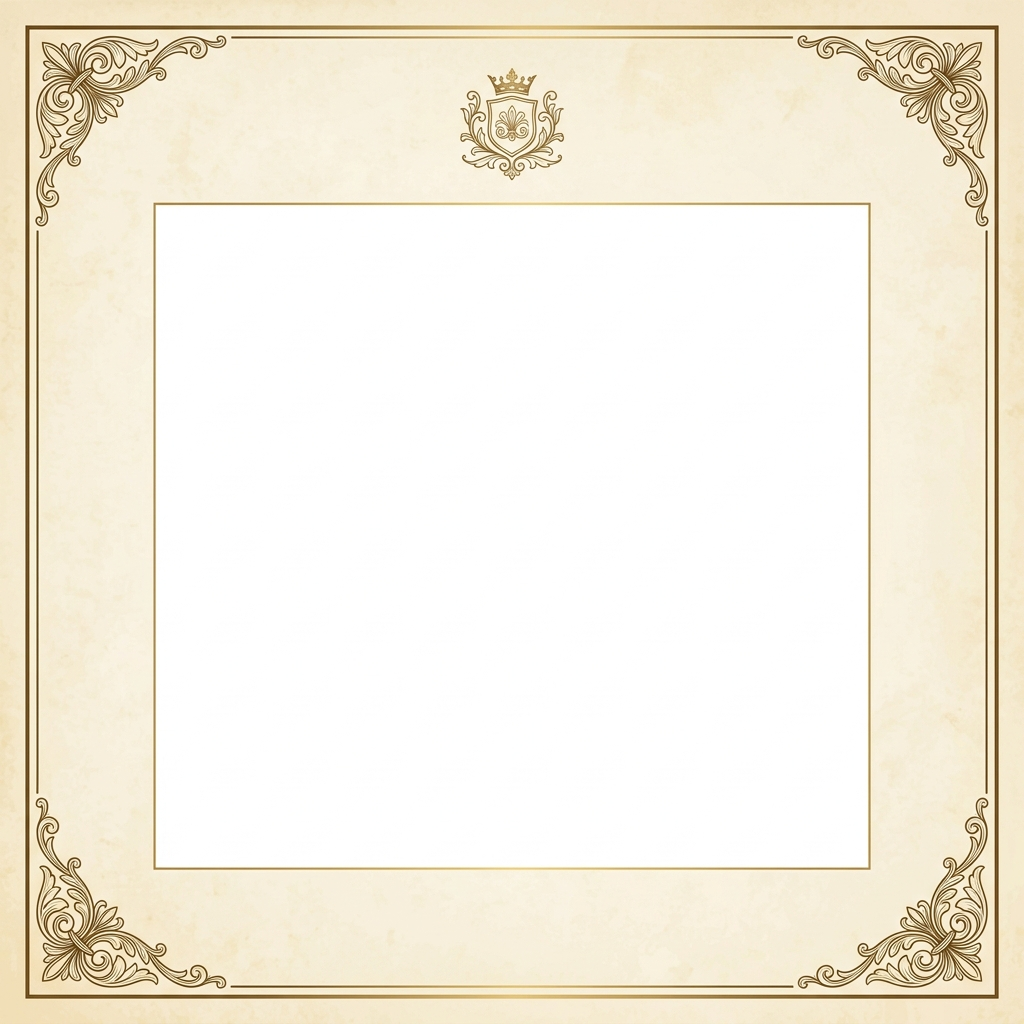
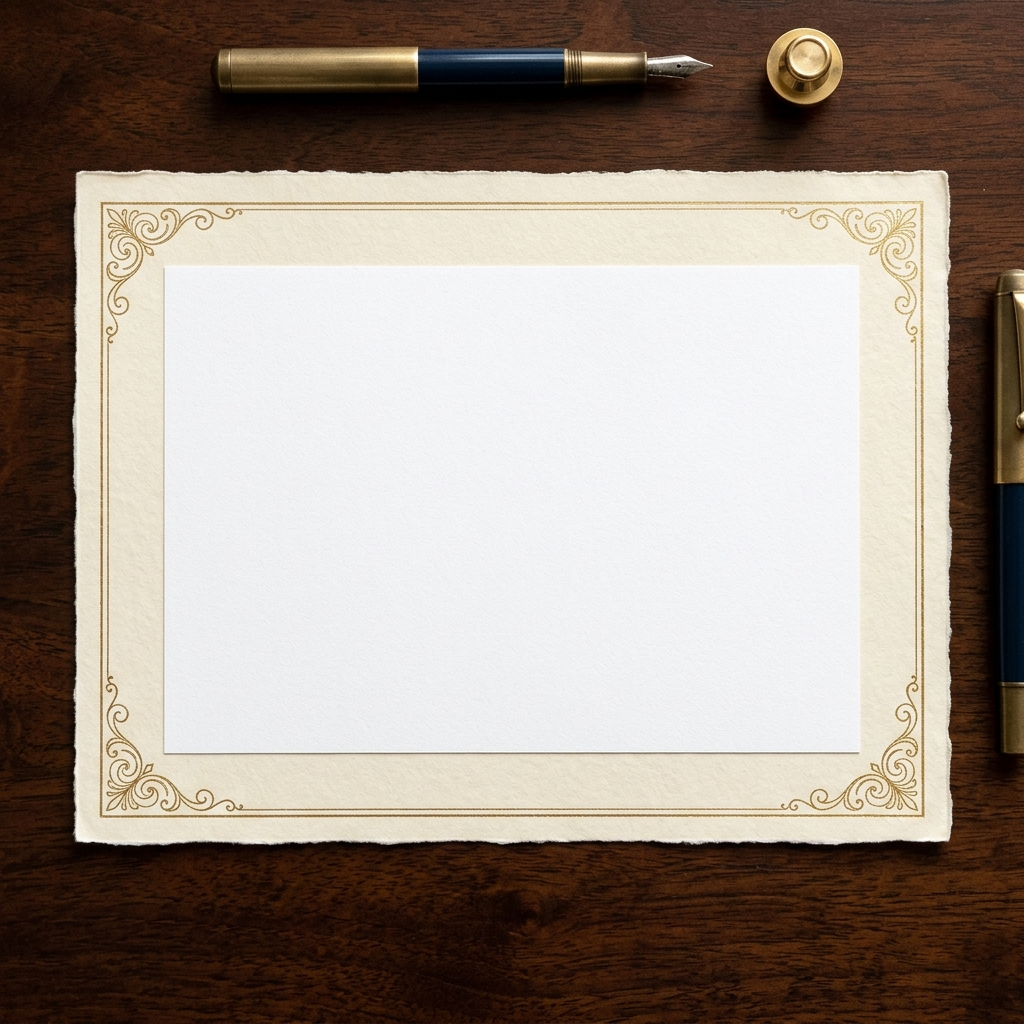
Add files via upload

diff --git a/index.css b/index.css
@@ -2446,15 +2446,15 @@ h1, h2, h3, h4, .logo-text, .message-typography {
     }
 
     body.print-size-a4 .thiep-bottom-row {
-        bottom: 35mm !important;
-        right: 32mm !important;
+        bottom: 45mm !important;
+        right: 42mm !important;
         left: auto !important;
         width: auto !important;
     }
 
     body.print-size-a5 .thiep-bottom-row {
-        bottom: 24mm !important;
-        right: 22mm !important;
+        bottom: 32mm !important;
+        right: 30mm !important;
         left: auto !important;
         width: auto !important;
     }
@@ -3102,22 +3102,22 @@ h1, h2, h3, h4, .logo-text, .message-typography {
         position: absolute !important;
         top: 0 !important;
         left: 0 !important;
-        width: 100vw !important;
-        height: 100vh !important;
+        width: 100% !important;
+        height: 100% !important;
         margin: 0 !important;
         padding: 0 !important;
         z-index: 999999 !important;
         background-color: #ffffff !important;
-        overflow: hidden !important; /* Crops the outer 3% bleed margin */
+        overflow: hidden !important;
     }
 
     /* Stretch and bleed the empty template image to touch the exact edges of the sheet and cut off outer margins */
     body.print-template-only .printable-template-only-container img {
-        width: 106% !important;
-        height: 106% !important;
+        width: 100% !important;
+        height: 100% !important;
         position: absolute !important;
-        top: -3% !important;
-        left: -3% !important;
+        top: 0 !important;
+        left: 0 !important;
         object-fit: fill !important; /* Bleeds and snaps perfectly to the page boundary */
         margin: 0 !important;
         padding: 0 !important;

diff --git a/index.html b/index.html
@@ -871,6 +871,10 @@
             <div class="modal-body" style="padding: 24px; display: flex; flex-direction: column; gap: 20px;">
                 <p style="font-size: 0.85rem; color: var(--color-text-brown); line-height: 1.5; margin: 0; background: rgba(214,175,55,0.05); padding: 12px; border-radius: 8px; border: 1px solid rgba(214,175,55,0.12);">
                     💡 Bạn có thể in màu khung viền trống này ra trước bằng máy in màu ở ngoài tiệm (hoặc ở nhà), sau đó nhét tờ giấy viền màu đó vào máy in để in chữ & ảnh của bạn đè lên.
+                    <br><br>
+                    ⚠️ <strong>Lưu ý cấu hình In ấn (Tránh bị lệch / Thừa viền trắng):</strong> Khi hộp thoại in của trình duyệt hiện ra, ở cột cấu hình bên phải, vui lòng thiết lập:
+                    <br>• <strong>Lề (Margins):</strong> Chọn <strong>"Không có" (None)</strong> để khung viền bám sát sát mép giấy.
+                    <br>• <strong>Đồ họa nền (Background graphics):</strong> Bắt buộc <strong>Tích chọn</strong> để hiển thị đầy đủ màu sắc.
                 </p>
 
                 <!-- Section 1: Select Template -->
@@ -890,14 +894,6 @@
                         <div class="template-choice-card" onclick="selectTemplateToPrint('royal', this)" style="border: 1px solid rgba(74, 59, 50, 0.15); padding: 10px; border-radius: 8px; cursor: pointer; text-align: center; transition: all 0.2s;">
                             <span style="font-size: 1.5rem; display: block; margin-bottom: 4px;">⚜️</span>
                             <strong style="font-size: 0.85rem; color: var(--color-text-brown); display: block;">Hoàng Gia</strong>
-                        </div>
-                        <div class="template-choice-card" onclick="selectTemplateToPrint('minimal', this)" style="border: 1px solid rgba(74, 59, 50, 0.15); padding: 10px; border-radius: 8px; cursor: pointer; text-align: center; transition: all 0.2s;">
-                            <span style="font-size: 1.5rem; display: block; margin-bottom: 4px;">📐</span>
-                            <strong style="font-size: 0.85rem; color: var(--color-text-brown); display: block;">Tối Giản Gold</strong>
-                        </div>
-                        <div class="template-choice-card" onclick="selectTemplateToPrint('firefly', this)" style="border: 1px solid rgba(74, 59, 50, 0.15); padding: 10px; border-radius: 8px; cursor: pointer; text-align: center; transition: all 0.2s;">
-                            <span style="font-size: 1.5rem; display: block; margin-bottom: 4px;">✨</span>
-                            <strong style="font-size: 0.85rem; color: var(--color-text-brown); display: block;">Đom Đóm Đêm</strong>
                         </div>
                     </div>
                 </div>
@@ -967,6 +963,8 @@
                 
                 <p style="font-size: 0.88rem; color: var(--color-text-brown); line-height: 1.6; margin: 0; background: rgba(214,175,55,0.05); padding: 12px; border-radius: 8px; border: 1px solid rgba(214,175,55,0.15);">
                     ✨ <strong>Bản in trắng tinh khôi dạng Word:</strong> Hệ thống tự động ẩn toàn bộ viền, khung nền trang trí và mã QR. Chỉ in phần <strong>Chữ & Ảnh</strong> của bạn ở chính giữa trang giấy để bạn dễ dàng nhét giấy tem in màu sẵn ngoài tiệm vào máy in gia đình mà không sợ đè khung.
+                    <br><br>
+                    ⚠️ <strong>Lưu ý cấu hình In ấn:</strong> Khi hộp thoại in hiện ra, ở cột cấu hình bên phải, vui lòng thiết lập <strong>Lề (Margins)</strong> là <strong>"Không có" (None)</strong> và tích chọn <strong>"Đồ họa nền" (Background graphics)</strong> để nội dung được in chính xác vào khoảng trống trung tâm.
                 </p>
 
                 <!-- Section 1: Select Paper Size -->